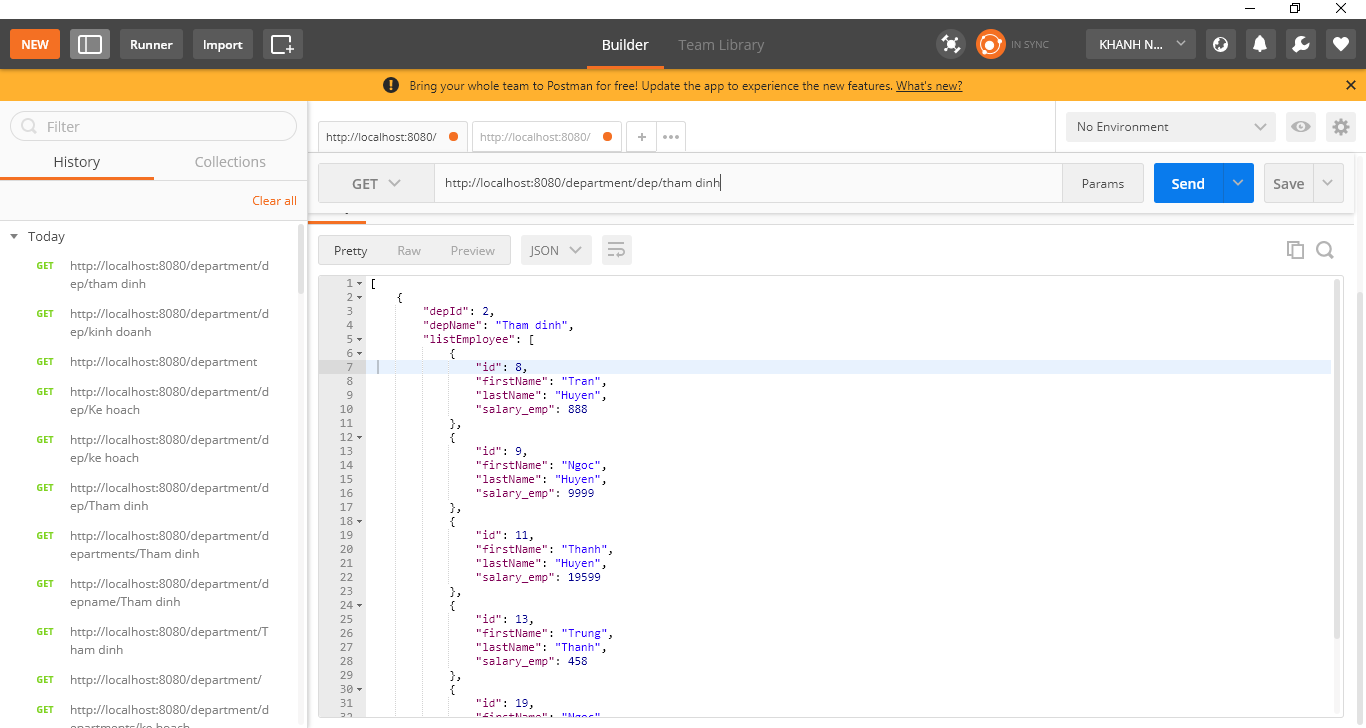
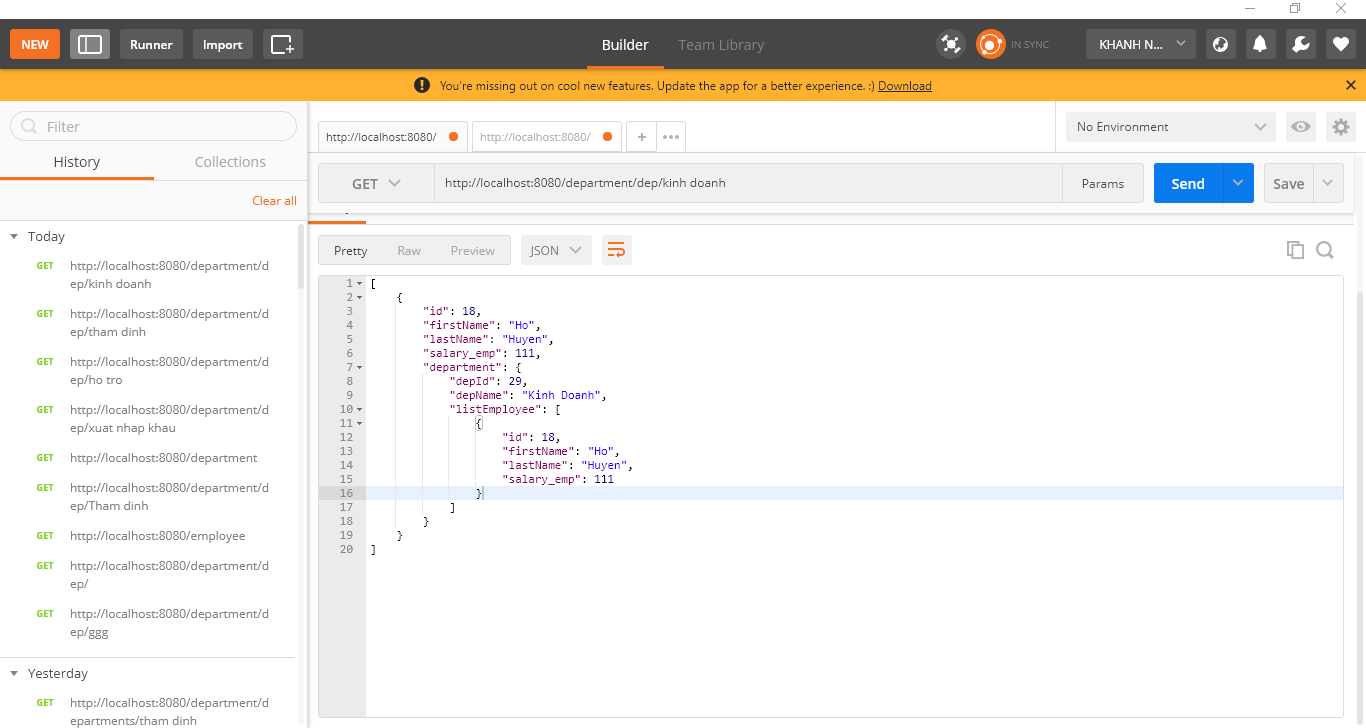
New Update find

diff --git a/src/main/java/com/example/demo1/DepartmentService.java b/src/main/java/com/example/demo1/DepartmentService.java
@@ -1,16 +1,11 @@
 package com.example.demo1;
 
-import com.fasterxml.jackson.annotation.JsonIgnore;
-import com.fasterxml.jackson.annotation.JsonIgnoreProperties;
 import javassist.NotFoundException;
-import org.hibernate.collection.internal.PersistentBag;
 import org.springframework.beans.factory.annotation.Autowired;
 import org.springframework.stereotype.Service;
 import org.springframework.transaction.annotation.Transactional;
 
-import javax.validation.constraints.Null;
 import java.util.ArrayList;
-import java.util.Collections;
 import java.util.List;
 import java.util.Optional;
 
@@ -88,14 +83,12 @@ public class DepartmentService {
             throw new NotFoundException("Không Tìm Thấy Department id :" + depId);
         }
     }
-    public Department findEmployeeByDepartmentName(String depName) throws NotFoundException {
-        Optional<Department> dep = departmentRepository.findEmployeeBydepName(depName);
-        if (dep.isPresent()) {
-            dep.get().getDepName();
-            dep.get().getListEmployee();
-            return dep.get();
+    public List<Employee> findEmployeeByDepartmentName(String depName) throws NotFoundException {
+        List<Employee> dep = departmentRepository.findEmployeeBydepName(depName);
+        if (dep!=null) {
+            return dep;
         } else {
-            throw new NotFoundException("Không Tìm Thấy Department id :" + depName);
+            throw new NotFoundException("Không Tìm Thấy :" + depName);
         }
     }
 

diff --git a/src/main/java/com/example/demo1/DepartmentController.java b/src/main/java/com/example/demo1/DepartmentController.java
@@ -1,6 +1,7 @@
 package com.example.demo1;
 
 import com.fasterxml.jackson.annotation.JsonBackReference;
+import com.fasterxml.jackson.annotation.JsonIgnore;
 import com.fasterxml.jackson.annotation.JsonIgnoreProperties;
 import javassist.NotFoundException;
 import org.springframework.beans.factory.annotation.Autowired;
@@ -9,6 +10,7 @@ import org.springframework.http.ResponseEntity;
 import org.springframework.web.bind.annotation.*;
 
 import java.util.List;
+import java.util.Optional;
 
 @RestController
 @RequestMapping("/department")
@@ -67,10 +69,10 @@ public class DepartmentController {
         Department dep = departmentService.findEmployeeByDepartmentId(depId);
         return new ResponseEntity<>(dep, HttpStatus.OK);
     }
+
     @GetMapping("/dep/{depName}")
-    public ResponseEntity<Department> findEmployeeByDEPName(@PathVariable String depName) throws NotFoundException {
-        Department dep = departmentService.findEmployeeByDepartmentName(depName);
+    public ResponseEntity<List<Employee>> findEmployeeByDepName(@PathVariable String depName) throws NotFoundException {
+        List<Employee> dep =  departmentService.findEmployeeByDepartmentName(depName);
         return new ResponseEntity<>(dep, HttpStatus.OK);
     }
-
 }

diff --git a/src/main/java/com/example/demo1/DepartmentRepository.java b/src/main/java/com/example/demo1/DepartmentRepository.java
@@ -1,12 +1,16 @@
 package com.example.demo1;
 
 import org.springframework.data.jpa.repository.JpaRepository;
+import org.springframework.data.jpa.repository.Query;
+import org.springframework.data.repository.query.Param;
 
 import java.util.List;
 import java.util.Optional;
 
 public interface DepartmentRepository extends JpaRepository<Department, Integer> {
     List<Department> findByDepName(String depName);
-    Optional<Department> findEmployeeBydepName (String depName);
-
+    @Query(value = "select distinct d.listEmployee" +
+            " from Employee  e,Department d " +
+            "where d.depName = :depName  ")
+    List<Employee> findEmployeeBydepName (@Param("depName") String depName);
 }

diff --git a/src/main/java/com/example/demo1/Department.java b/src/main/java/com/example/demo1/Department.java
@@ -18,8 +18,9 @@ public class Department {
     @Column(name = "dep_name")
     private String depName;
 
-    @JsonIgnoreProperties(value = "department",ignoreUnknown = true)
+
     @OneToMany(mappedBy = "department", fetch = FetchType.LAZY, cascade = CascadeType.ALL)
+    @JsonIgnoreProperties(value = "department")
     public List<Employee> listEmployee;
 
     public int getDepId() {

diff --git a/src/main/java/com/example/demo1/Employee.java b/src/main/java/com/example/demo1/Employee.java
@@ -61,7 +61,6 @@ public class Employee  {
     }
     @ManyToOne
     @JoinColumn(name ="dep_id")
-    @JsonIgnoreProperties(value = "employee")
     private Department department;
 
     @Override

diff --git a/src/main/java/com/example/demo1/EmployeeService.java b/src/main/java/com/example/demo1/EmployeeService.java
@@ -60,6 +60,5 @@ public class EmployeeService {
         }
     }
 
-
 }
 
